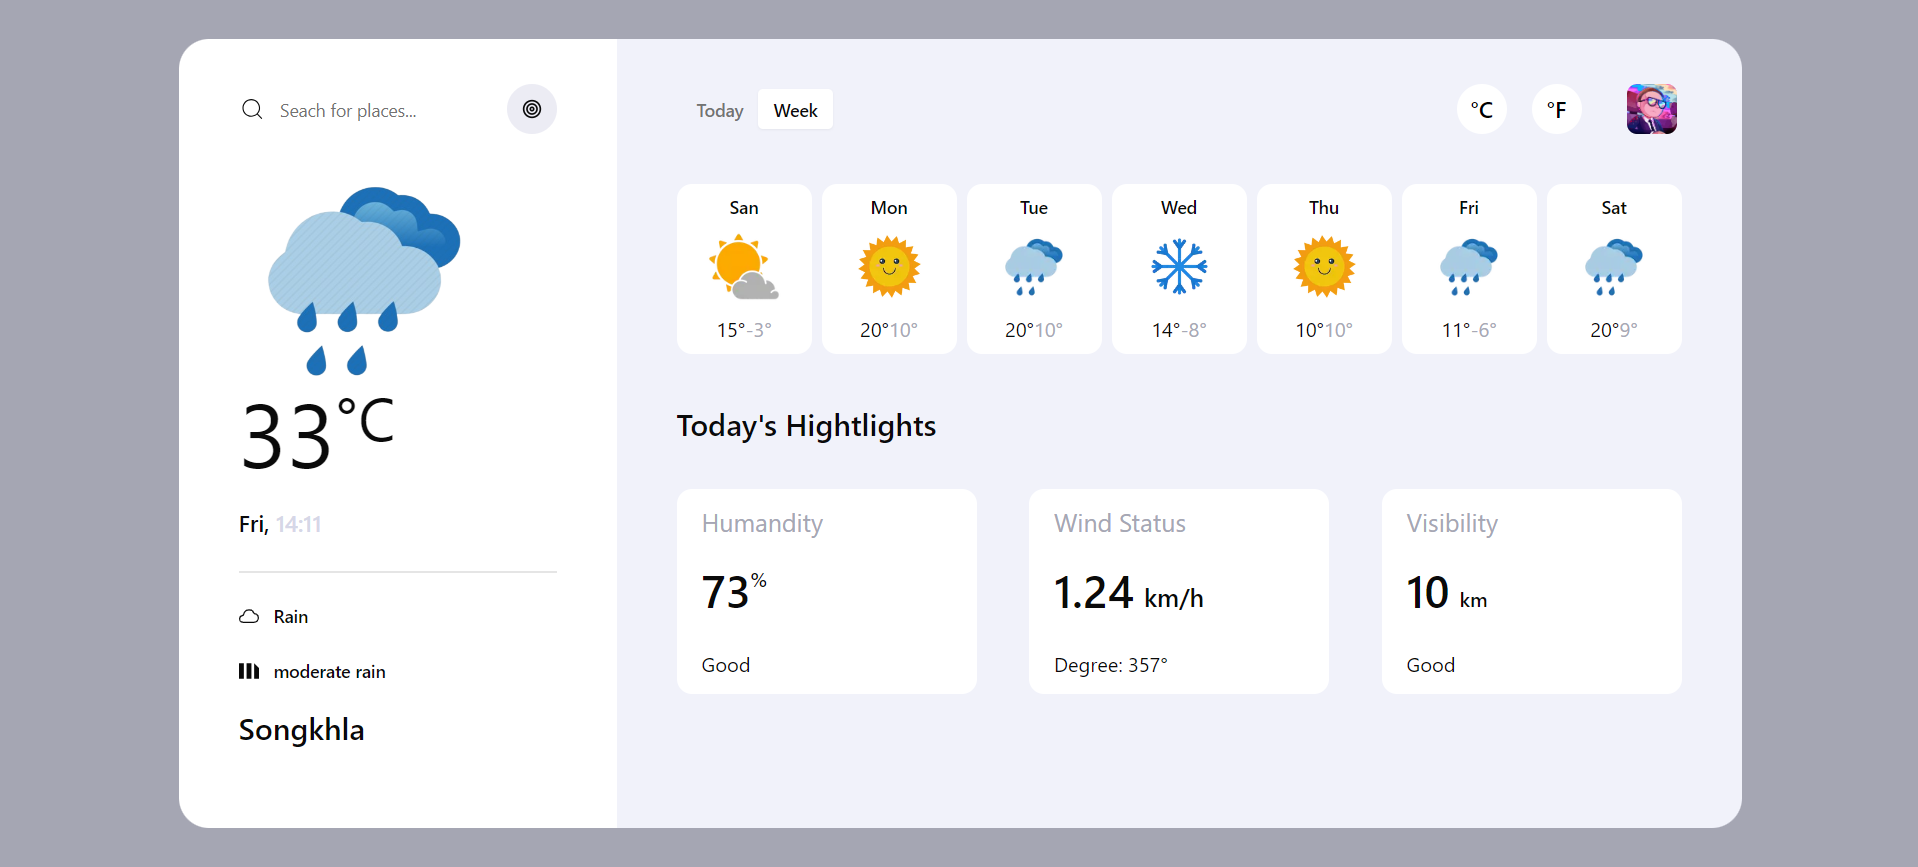
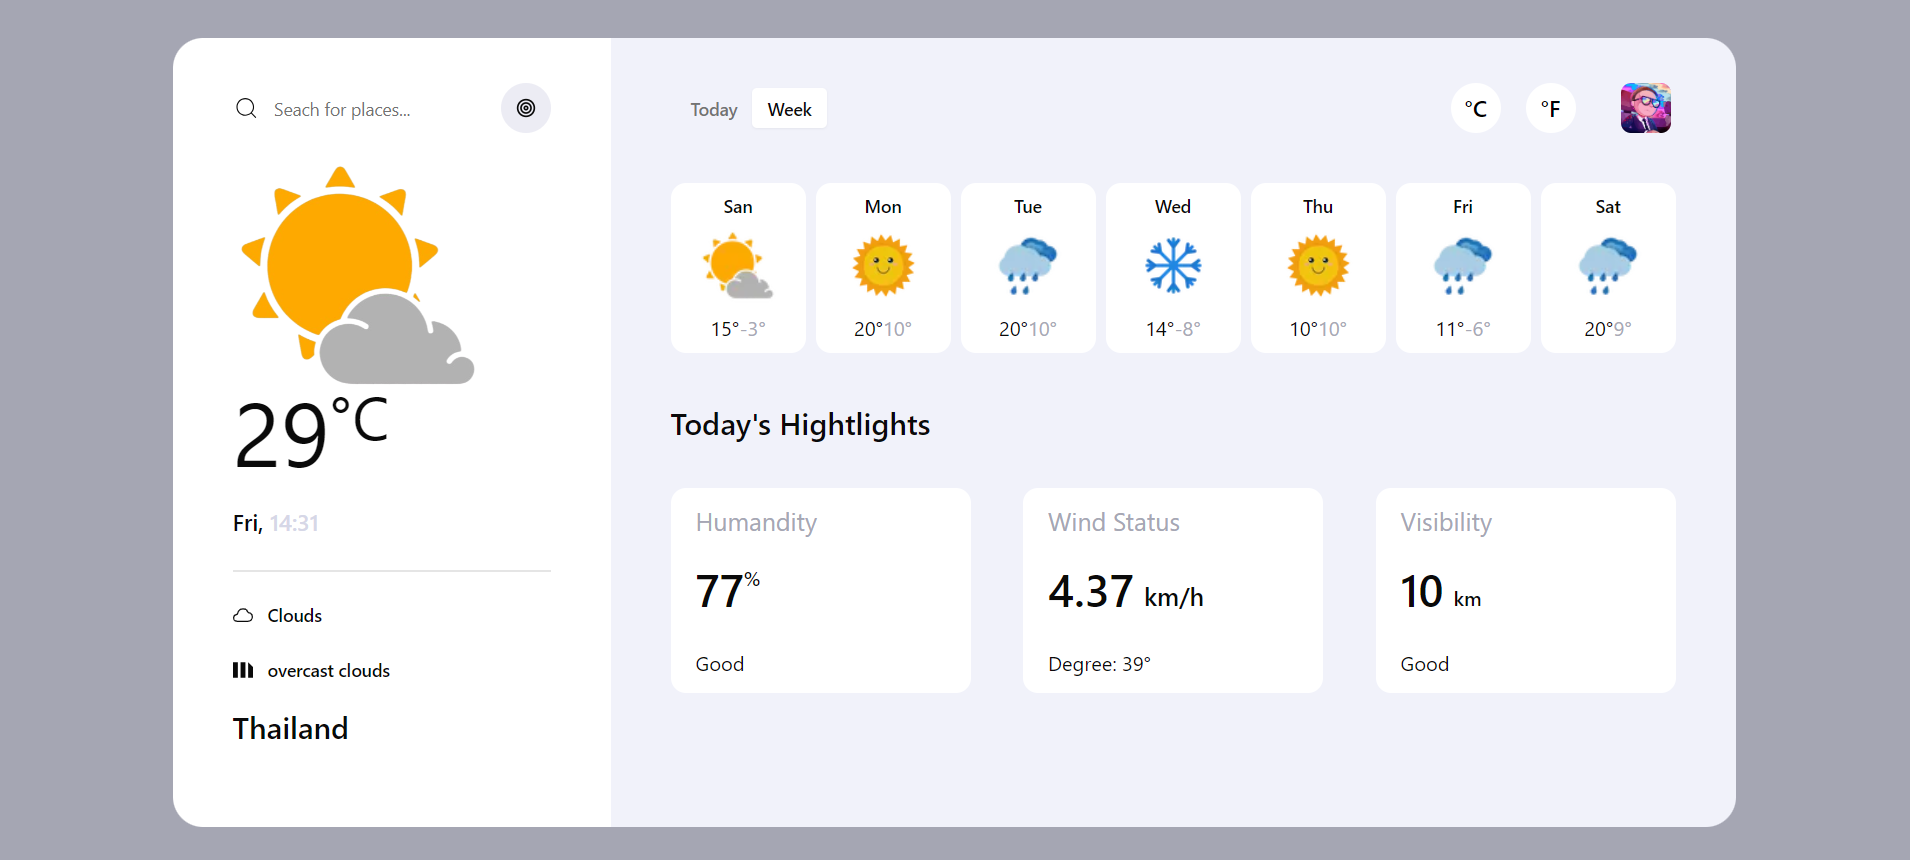
updated image

diff --git a/components/Main.tsx b/components/Main.tsx
@@ -56,7 +56,7 @@ const Main = () => {
   }, [weather]);
 
   useEffect(() => {
-    fetchWeather("songkhla");
+    fetchWeather("Thailand");
   }, []);
 
   const handleInput = (e: React.ChangeEvent<HTMLInputElement>) => {
